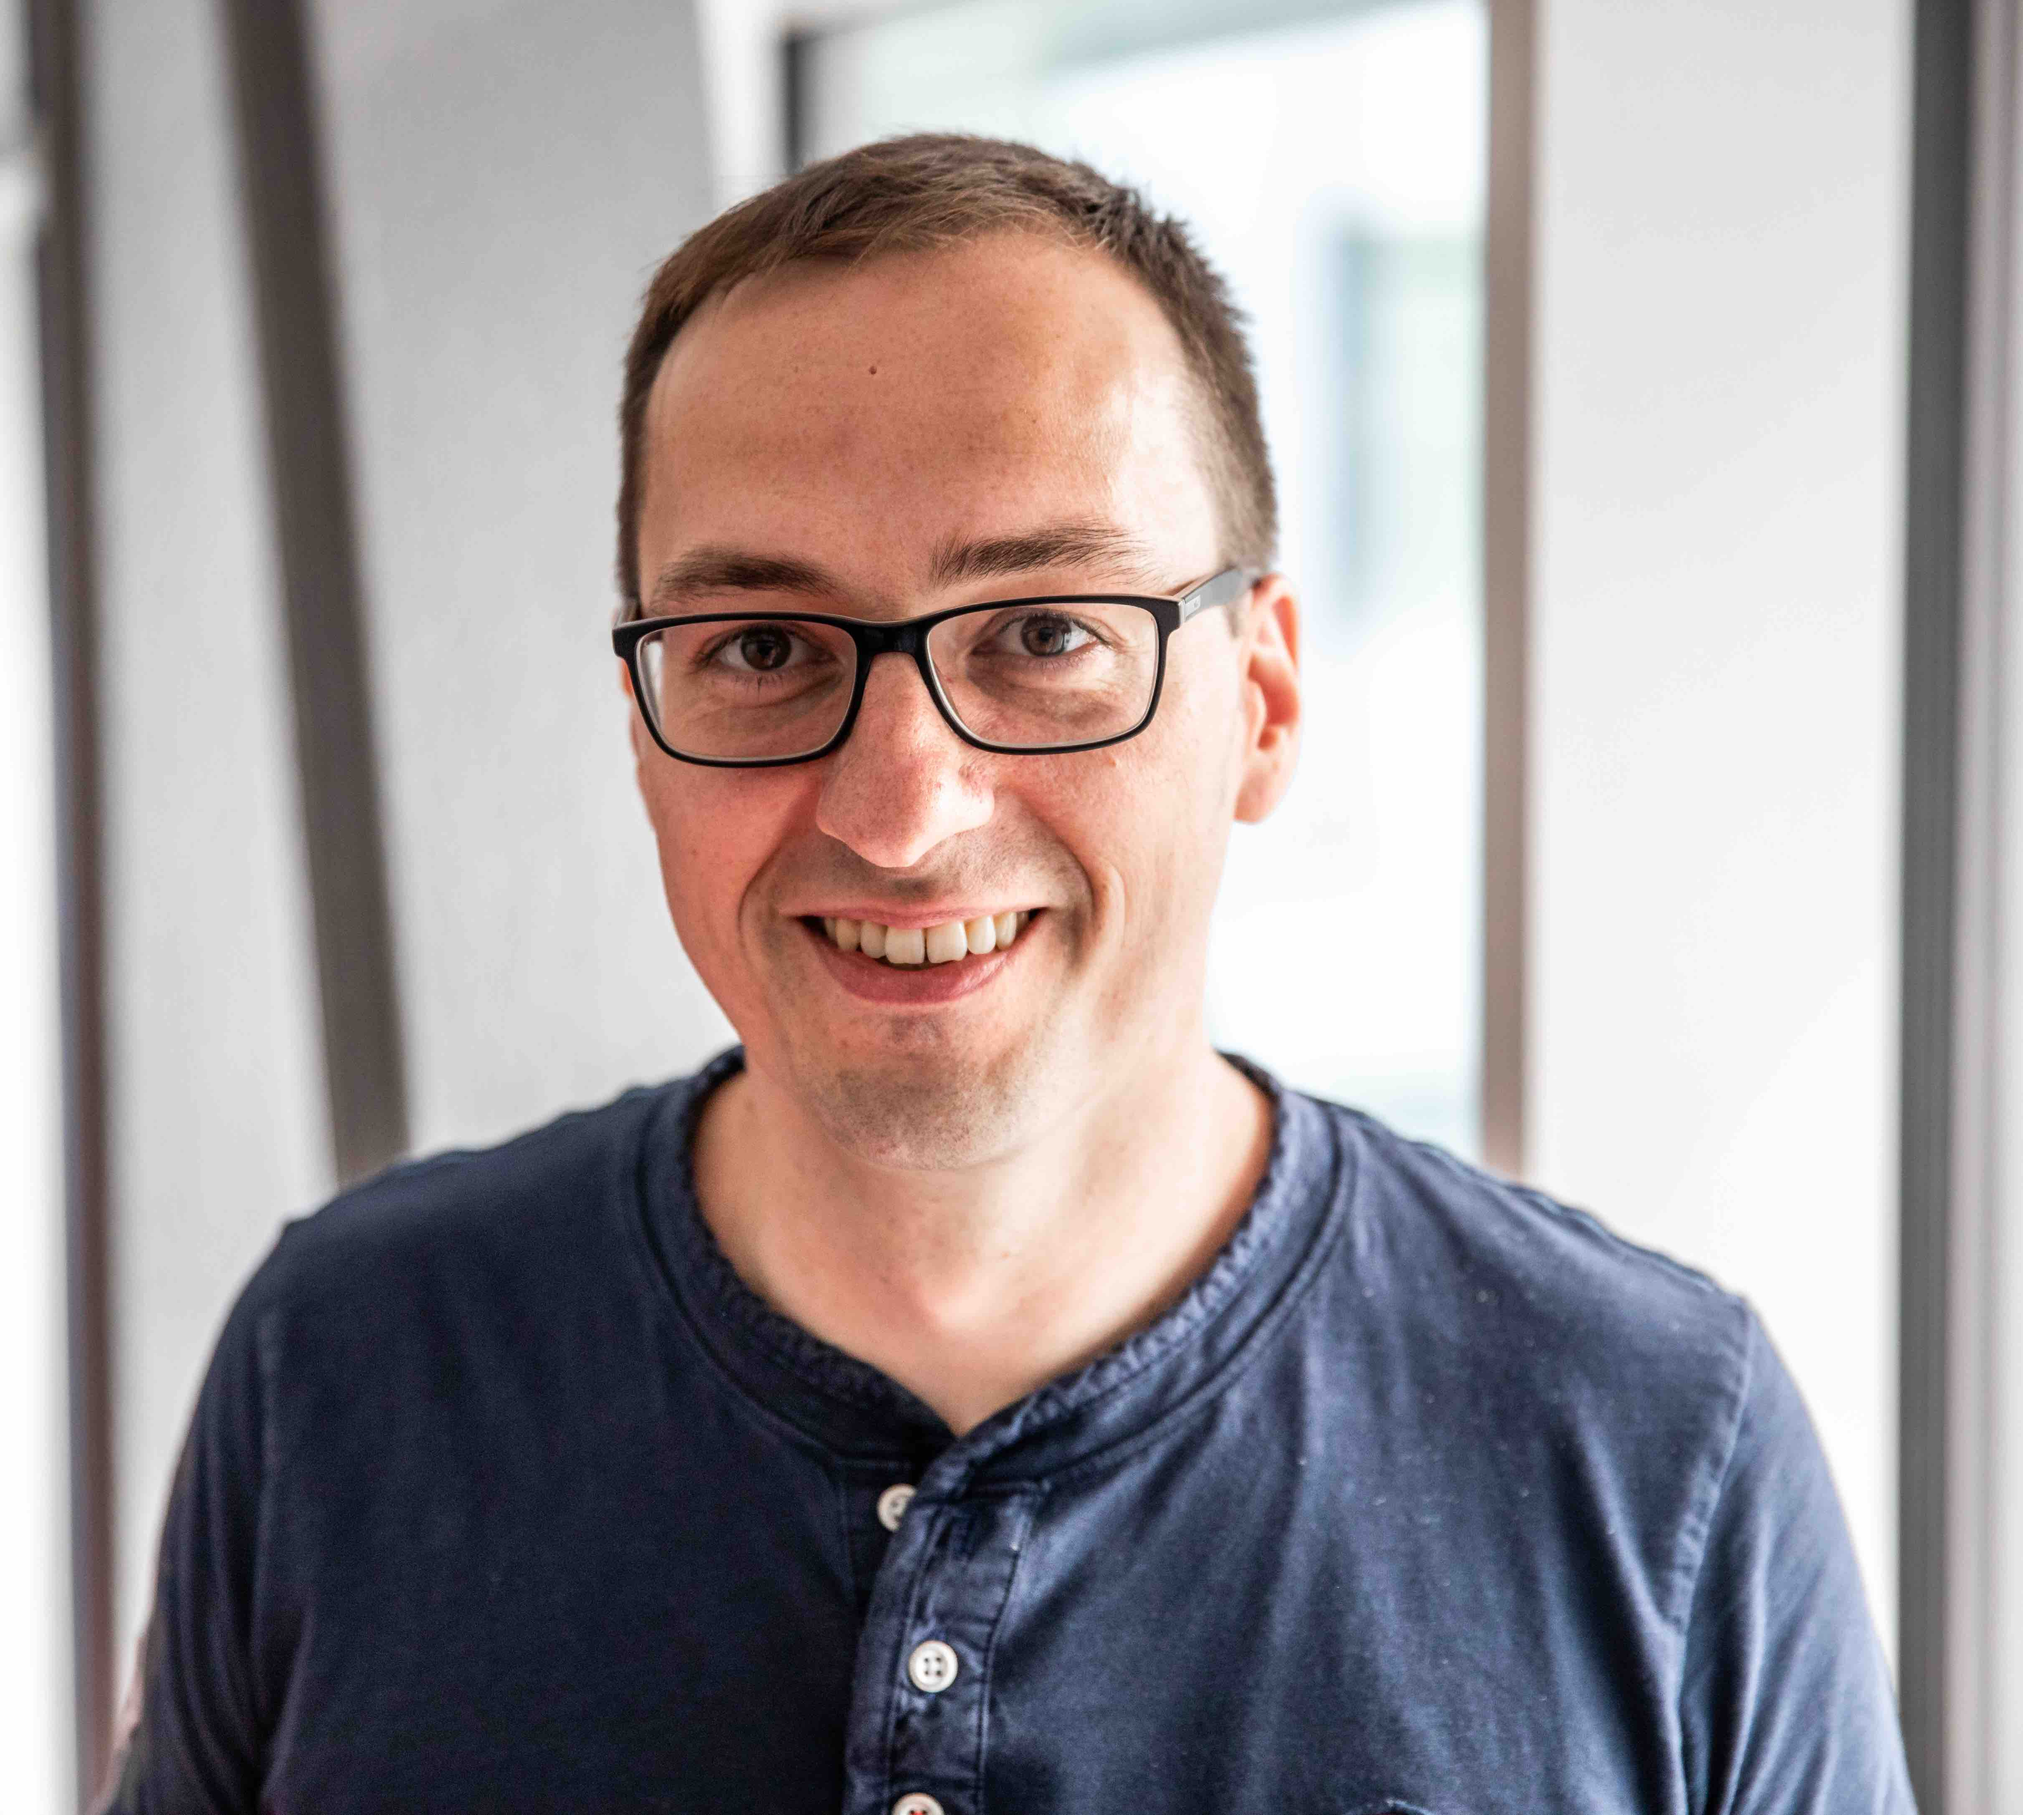
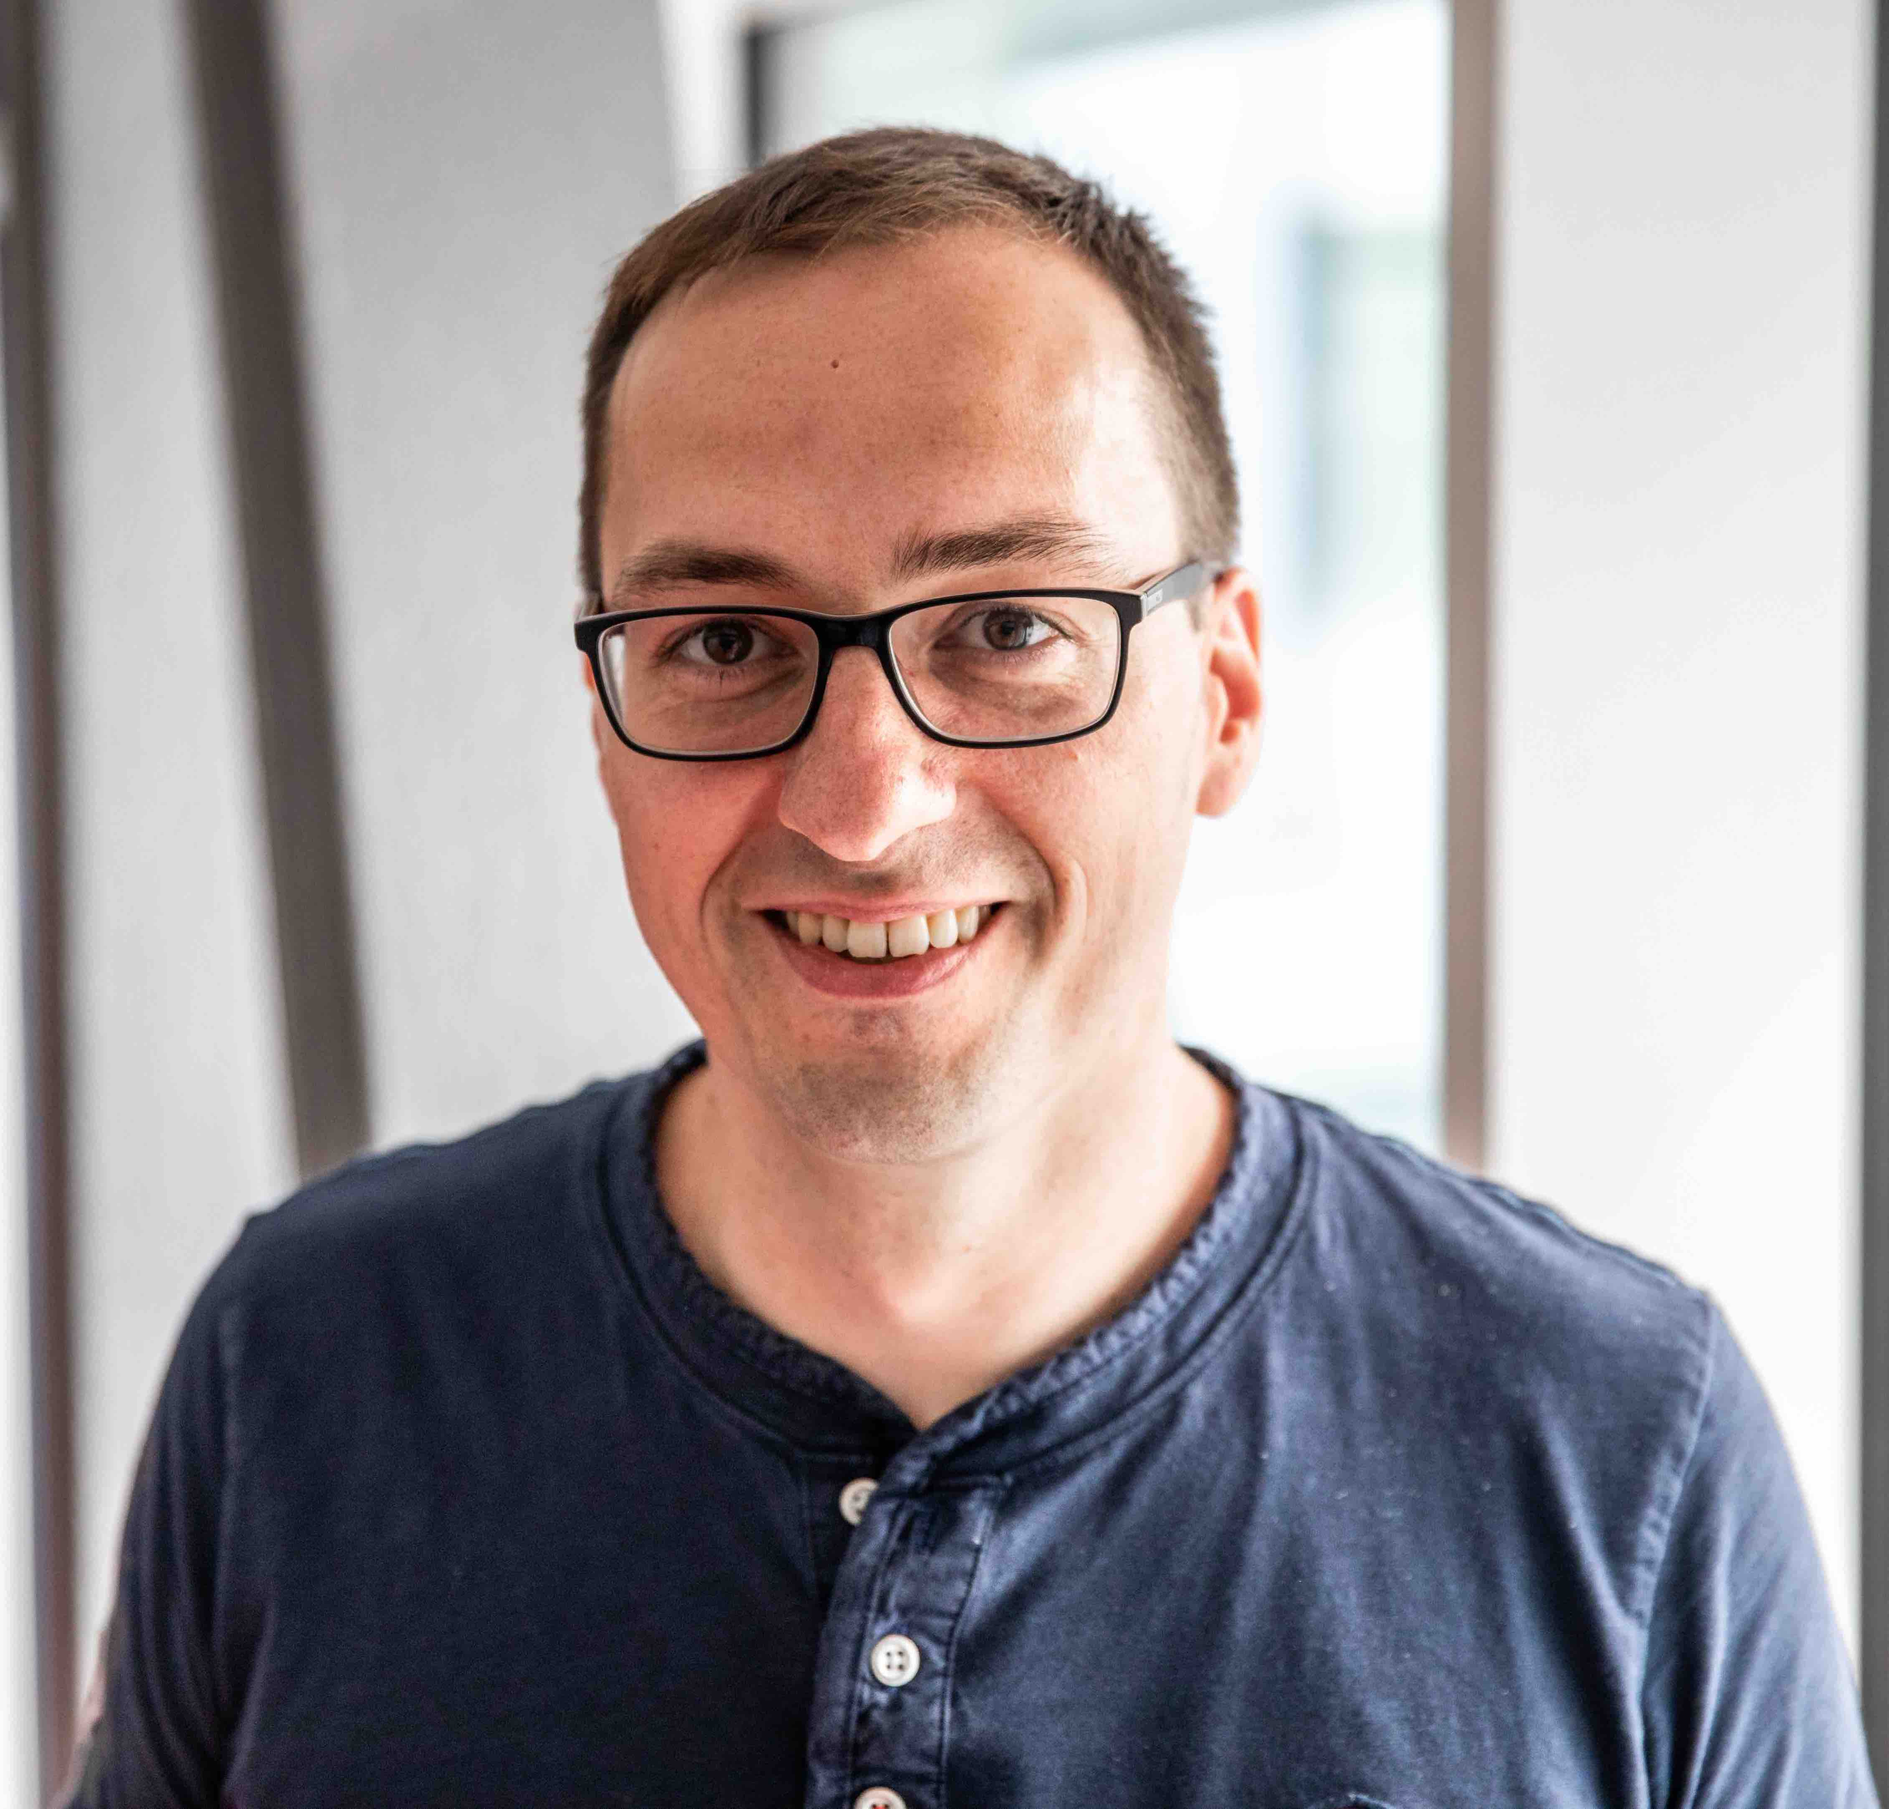
make profile pictures round and crop images to fit

diff --git a/_includes/people-grib.html b/_includes/people-grib.html
@@ -1,0 +1,15 @@
+<article class="tile" itemscope itemtype="http://schema.org/Article">
+  <a href="{{ site.url }}{{ post.url }}" title="{{ post.title }}"
+  class="post-teaser">
+ 
+  {% if post.image.teaser %} <div class="circular--portrait"> <img src="{{
+  site.url }}/images/{{ post.image.teaser }}" alt="teaser"
+  itemprop="image"></div>
+  
+  {% else %}<div class="circular--portrait"> <img src="{{ site.url }}/images/{{
+  site.teaser }}" alt="teaser" itemprop="image"></div>
+  {% endif %}</a>
+
+  <h2 class="post-title" itemprop="name"><a href="{{ site.url }}{{ post.url }}">{{ post.title }}</a></h2>
+  <p class="post-excerpt" itemprop="description">{{ post.excerpt | strip_html | truncate: 160 }}</p>
+</article><!-- /.tile -->

diff --git a/_layouts/people.html b/_layouts/people.html
@@ -7,8 +7,7 @@ layout: default
 		{% if page.image.feature %}
 		<div class="page-feature">
 			<div class="page-image">
-				<img src="{{ site.url }}/images/{{ page.image.feature }}" width="10%" height="10%"
-				class="page-feature-image" alt="{{ page.title }}" itemprop="image">
+				<img src="{{ site.url }}/images/{{ page.image.feature }}" class="page-feature-image" alt="{{ page.title }}" itemprop="image">
 				{% if page.image.credit %}{% include image-credit.html %}{% endif %}
 			</div><!-- /.page-image -->
 		</div><!-- /.page-feature -->

diff --git a/css/main.scss b/css/main.scss
@@ -64,3 +64,16 @@ br {
    margin-right: auto;
    width: 50%;
 }
+
+.circular--portrait {
+   position: relative;
+   width: 200px;
+   height: 200px;
+   overflow: hidden;
+   border-radius: 50%;
+ }
+ 
+ .circular--portrait img {
+   width: 100%;
+   height: auto;
+ }

diff --git a/people/index.md b/people/index.md
@@ -11,6 +11,6 @@ image:
 <div class="tiles">
 <h5 class="post-title">Current</h5>
 {% for post in site.categories.current reversed%}
-  {% include post-grid.html %}
+  {% include people-grib.html %}
 {% endfor %}
 </div><!-- /.tiles -->
